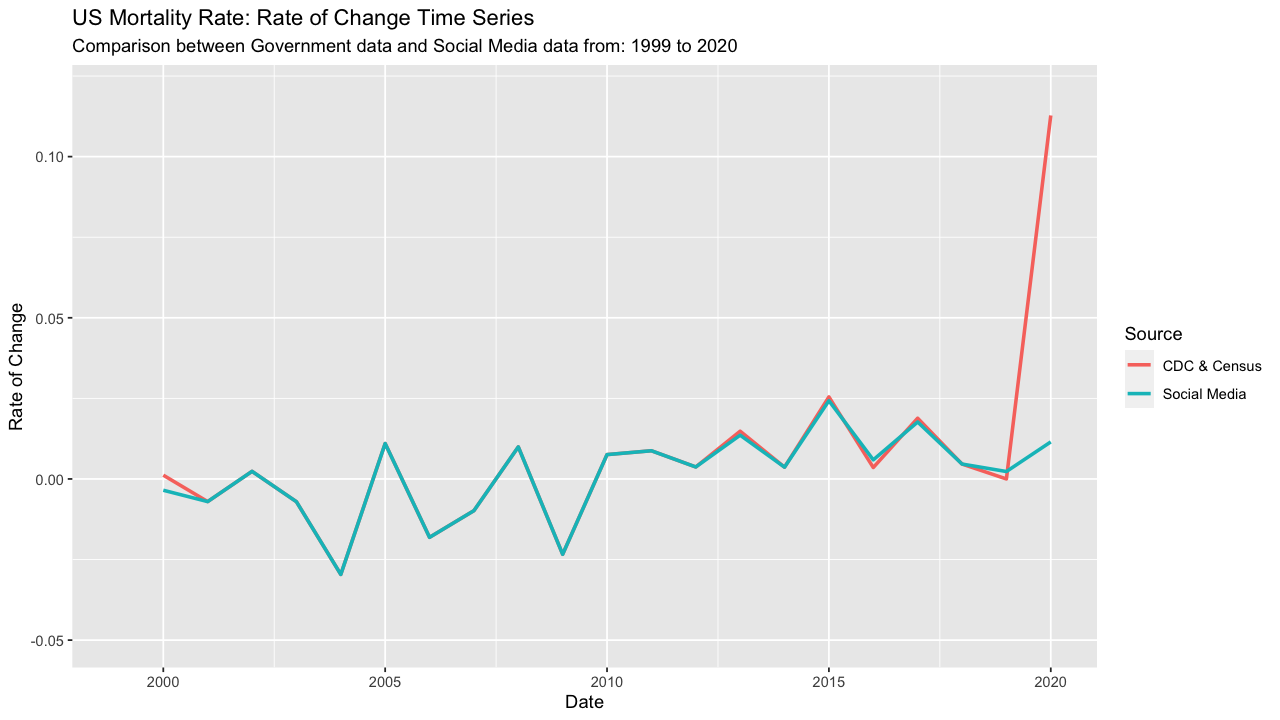
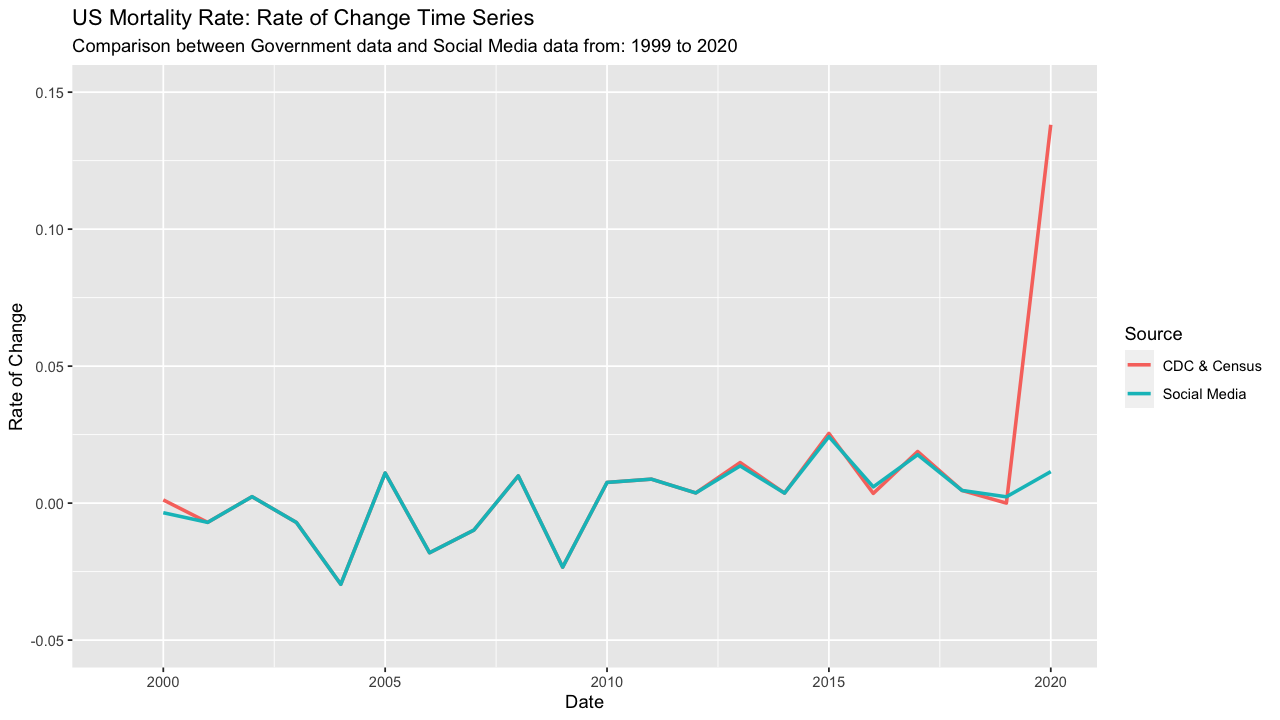
Travis build  pushed to Github Pages

diff --git a/covid-19-mortality-and-disinformation-part-4.html b/covid-19-mortality-and-disinformation-part-4.html
@@ -4,7 +4,7 @@
         <meta charset="utf-8">
         <meta http-equiv="X-UA-Compatible" content="IE=edge">
         <meta name="viewport" content="width=device-width, initial-scale=1">
-        <meta name="description" content="Covid Mortality and Disinformation - (Part 4) In the previous two posts we downloaded mortality data from the National Center for Health Statistics (NCHS) and population data from the Census from...">
+        <meta name="description" content="Covid Mortality and Disinformation - (Part 4) As part of our investigation into mortality rates reported on social media and mortality data created by combining government data sources, we&#39;ve now...">
         <meta name="keywords" content="">
         <link rel="icon" href="./favicon.ico">
         <!-- Canonical -->
@@ -70,7 +70,7 @@
               <div class="col-lg-12">
                   <div class="header-content">
                       <h1 class="header-title">COVID-19 Mortality and Disinformation - Part 4</h1>
-                      <p class="header-date"> <a href="./author/kivan-polimis.html">Kivan Polimis</a>, Wed 13 January 2021,  <a href="./category/tutorials.html">Tutorials</a></p>
+                      <p class="header-date"> <a href="./author/kivan-polimis.html">Kivan Polimis</a>, Sun 17 January 2021,  <a href="./category/tutorials.html">Tutorials</a></p>
                       <div class="header-underline"></div>
                       <div class="clearfix"></div>
                       <p class="pull-right header-tags">
@@ -90,7 +90,7 @@
         <!-- Content -->
     <div class="container content">
         <h1>Covid Mortality and Disinformation - (Part 4)</h1>
-<p>In the previous two posts we downloaded mortality data from the <a href="https://www.cdc.gov/nchs/about/50th_anniversary.htm">National Center for Health Statistics</a> (NCHS) and population data from the Census from 1999 to 2020</p>
+<p>As part of our investigation into mortality rates reported on social media and mortality data created by combining government data sources, we've now completed 3 steps. First, we <a href="http://kivanpolimis.com/covid-19-mortality-and-disinformation-part-1.html">downloaded mortality data</a> from the <a href="https://www.cdc.gov/nchs/about/50th_anniversary.htm">National Center for Health Statistics</a> (NCHS) from 1999 to 2020. Then we <a href="http://kivanpolimis.com/covid-19-mortality-and-disinformation-part-2.html">downloaded population data</a> from the Census from 1999 to 2020. Using the mortality and population data, we <a href="http://kivanpolimis.com/covid-19-mortality-and-disinformation-part-3.html">created mortality rates</a>. Now that we have mortality rates, we can compare the mortality data we have with the mortality data reported on social media that spurred this blog series.</p>
 <p>load libraries</p>
 <div class="highlight"><pre><span></span><span class="nf">library</span><span class="p">(</span><span class="n">here</span><span class="p">)</span>
 <span class="nf">library</span><span class="p">(</span><span class="n">reshape2</span><span class="p">)</span>
@@ -99,79 +99,122 @@
 </pre></div>
 
 
+<p>Our mortality data is stores in the .csv <code>mortality_time_series_national.csv</code>. I manually coded the table reported in the social media blog post in the .csv <code>social_media_mortality_data.csv</code>.</p>
 <div class="highlight"><pre><span></span><span class="n">mortality_time_series_national</span> <span class="o">=</span> <span class="nf">read_csv</span><span class="p">(</span><span class="nf">here</span><span class="p">(</span><span class="s">&quot;output/mortality_time_series_national.csv&quot;</span><span class="p">))</span>
 <span class="n">social_media_mortality_data</span> <span class="o">=</span> <span class="nf">read_csv</span><span class="p">(</span><span class="nf">here</span><span class="p">(</span><span class="s">&quot;data/social_media_mortality_data.csv&quot;</span><span class="p">))</span>
 </pre></div>
 
 
-<div class="highlight"><pre><span></span><span class="nf">names</span><span class="p">(</span><span class="n">mortality_time_series_national</span><span class="p">)</span>
-<span class="nf">names</span><span class="p">(</span><span class="n">social_media_mortality_data</span><span class="p">)</span>
-</pre></div>
-
-
+<p>Let's add a column <code>source</code> to each dataset so that we can tell the data sources apart when we create a comparison data set</p>
 <div class="highlight"><pre><span></span><span class="n">mortality_time_series_national</span><span class="o">$</span><span class="n">source</span> <span class="o">=</span> <span class="s">&quot;CDC &amp; Census&quot;</span>
 <span class="n">social_media_mortality_data</span><span class="o">$</span><span class="n">source</span> <span class="o">=</span> <span class="s">&quot;Social Media&quot;</span>
-<span class="n">mortality_comparison_data_long</span> <span class="o">=</span> <span class="nf">rbind</span><span class="p">(</span><span class="n">mortality_time_series_national</span><span class="p">,</span> <span class="n">social_media_mortality_data</span><span class="p">)</span>
 </pre></div>
 
 
+<p>Quick look at the datasets. We can see that they have identical column names and the same amount of observations.</p>
+<div class="highlight"><pre><span></span><span class="nf">glimpse</span><span class="p">(</span><span class="n">mortality_time_series_national</span><span class="p">)</span>
+<span class="nf">glimpse</span><span class="p">(</span><span class="n">social_media_mortality_data</span><span class="p">)</span>
+</pre></div>
+
+
+<div class="highlight"><pre><span></span><span class="err">## Rows: 44</span>
+<span class="err">## Columns: 5</span>
+<span class="err">## $ state_name &lt;chr&gt; &quot;United States&quot;, &quot;United States&quot;, &quot;United States&quot;, &quot;Unit...</span>
+<span class="err">## $ variable   &lt;chr&gt; &quot;pop_estimate&quot;, &quot;pop_estimate&quot;, &quot;pop_estimate&quot;, &quot;pop_est...</span>
+<span class="err">## $ value      &lt;dbl&gt; 280466621, 281424600, 284968955, 287625193, 290107933, 2...</span>
+<span class="err">## $ year       &lt;dbl&gt; 1999, 2000, 2001, 2002, 2003, 2004, 2005, 2006, 2007, 20...</span>
+<span class="err">## $ source     &lt;chr&gt; &quot;CDC &amp; Census&quot;, &quot;CDC &amp; Census&quot;, &quot;CDC &amp; Census&quot;, &quot;CDC &amp; C...</span>
+</pre></div>
+
+
+<div class="highlight"><pre><span></span><span class="err">## Rows: 44</span>
+<span class="err">## Columns: 5</span>
+<span class="err">## $ state_name &lt;chr&gt; &quot;United States&quot;, &quot;United States&quot;, &quot;United States&quot;, &quot;Unit...</span>
+<span class="err">## $ year       &lt;dbl&gt; 1999, 2000, 2001, 2002, 2003, 2004, 2005, 2006, 2007, 20...</span>
+<span class="err">## $ variable   &lt;chr&gt; &quot;pop_estimate&quot;, &quot;pop_estimate&quot;, &quot;pop_estimate&quot;, &quot;pop_est...</span>
+<span class="err">## $ value      &lt;dbl&gt; 279040168, 281421906, 284968955, 287625193, 290107933, 2...</span>
+<span class="err">## $ source     &lt;chr&gt; &quot;Social Media&quot;, &quot;Social Media&quot;, &quot;Social Media&quot;, &quot;Social ...</span>
+</pre></div>
+
+
+<p>Combine our curated mortality data with social media mortality data into one long mortality dataset.</p>
+<div class="highlight"><pre><span></span><span class="n">mortality_comparison_data_long</span> <span class="o">=</span> <span class="nf">rbind</span><span class="p">(</span><span class="n">mortality_time_series_national</span><span class="p">,</span> <span class="n">social_media_mortality_data</span><span class="p">)</span>
+</pre></div>
+
+
+<p>Create a wide combined mortality dataset and add three comparison variables: (1) the mortality rate, (2) the mortality rate lag, and (3) the rate of change for the mortality rate</p>
 <div class="highlight"><pre><span></span><span class="n">mortality_comparison_data_wide</span> <span class="o">=</span> <span class="n">reshape2</span><span class="o">::</span><span class="nf">dcast</span><span class="p">(</span><span class="n">mortality_comparison_data_long</span><span class="p">,</span> <span class="n">state_name</span> <span class="o">+</span> <span class="n">year</span> <span class="o">+</span> <span class="n">source</span> <span class="o">~</span> <span class="n">variable</span><span class="p">)</span> <span class="o">%&gt;%</span>
   <span class="nf">group_by</span><span class="p">(</span><span class="n">source</span><span class="p">)</span> <span class="o">%&gt;%</span>
   <span class="nf">arrange</span><span class="p">(</span><span class="n">source</span><span class="p">)</span> <span class="o">%&gt;%</span>
   <span class="nf">mutate</span><span class="p">(</span><span class="n">mortality_rate</span> <span class="o">=</span> <span class="nf">round</span><span class="p">((</span><span class="n">all_deaths</span><span class="o">/</span><span class="n">pop_estimate</span><span class="p">)</span><span class="o">*</span><span class="m">100000</span><span class="p">),</span>
          <span class="n">mortality_rate_lag</span> <span class="o">=</span> <span class="nf">lag</span><span class="p">(</span><span class="n">mortality_rate</span><span class="p">,</span> <span class="n">order_by</span> <span class="o">=</span> <span class="n">year</span><span class="p">),</span>
-         <span class="n">mortality_rate_roc</span> <span class="o">=</span> <span class="m">100</span> <span class="o">*</span> <span class="p">(</span><span class="n">mortality_rate</span> <span class="o">-</span> <span class="n">mortality_rate_lag</span><span class="p">)</span><span class="o">/</span><span class="n">mortality_rate_lag</span><span class="p">)</span>
+         <span class="n">mortality_rate_roc</span> <span class="o">=</span> <span class="p">(</span><span class="n">mortality_rate</span> <span class="o">-</span> <span class="n">mortality_rate_lag</span><span class="p">)</span><span class="o">/</span><span class="n">mortality_rate_lag</span><span class="p">)</span>
 </pre></div>
 
 
+<p>Now we can plot the mortality rate by data source. The mortality rates are near identical with the exception of 2020 (more on this later)</p>
 <div>
 <img src="images/us_mortality_rate_plot.png" alt="Rate of Change: US Mortality Rate Change from 1999 to 2020">
 </div>
 
-<div>
-<img src="images/us_mortality_rate_roc_plot.png" alt="Rate of Change: US Mortality Rate Change from 1999 to 2020">
-</div>
-
-<div>
-<img src="images/us_mortality_rate_facet_plot.png" alt="US Mortality Rate per 100,000 from 1999 to 2020 (Dual Plots)">
-</div>
-
+<p>Let's create facet plots of the mortality rate by source to better see the trend because they so closely overlap and look like one line for most of the time period</p>
 <div>
 <img src="images/us_mortality_rate_roc_facet_plot.png" alt="Rate of Change: US Mortality Rate of Change from 1999 to 2020 (Dual Plots)">
 </div>
 
-<div class="highlight"><pre><span></span><span class="n">mortality_rate_roc_comparison</span> <span class="o">=</span>  <span class="n">mortality_comparison_data_wide</span> <span class="o">%&gt;%</span>
+<p>Here's a plot of mortality rate's rate of change by data source. Similar to the plot of mortality rate, 2020 is the data point where our data sources differ the most.</p>
+<div>
+<img src="images/us_mortality_rate_roc_plot.png" alt="Rate of Change: US Mortality Rate Change from 1999 to 2020">
+</div>
+
+<p>We can create another facet plot to better separate trends</p>
+<div>
+<img src="images/us_mortality_rate_facet_plot.png" alt="US Mortality Rate per 100,000 from 1999 to 2020 (Dual Plots)">
+</div>
+
+<p>We will compare the Social Media data and Government data by cohort and period. <a href="https://www.publichealth.columbia.edu/research/population-health-methods/age-period-cohort-analysis">Period and cohort analysis</a> is a method common to epidemiology; while we are not using the terms in their exact public health sense, these terms can be helpful for separating time-varying elements. The period comparison will compare the mortality rate of change from 1999 to 2019 with the mortality rate of change from 2020, recalling the central point of contention from our poster that 2020 mortality is inline with the time period 1999 to 2019. Secondly, we will split the time period 1999 to 2020 into 5-year cohorts for a more granular analysis of the trends within proximate years.</p>
+<div class="highlight"><pre><span></span><span class="n">cohort_period_comparisons</span> <span class="o">=</span>  <span class="n">mortality_comparison_data_wide</span> <span class="o">%&gt;%</span>
   <span class="nf">mutate</span><span class="p">(</span><span class="n">period</span> <span class="o">=</span> <span class="nf">ifelse</span><span class="p">(</span><span class="n">year</span><span class="o">&lt;</span><span class="m">2020</span><span class="p">,</span><span class="s">&quot;1999-2019&quot;</span><span class="p">,</span> <span class="s">&quot;2020&quot;</span><span class="p">),</span>
          <span class="n">cohort</span> <span class="o">=</span> <span class="nf">ifelse</span><span class="p">(</span><span class="n">year</span><span class="o">&gt;=</span><span class="m">1999</span> <span class="o">&amp;</span> <span class="n">year</span><span class="o">&lt;</span><span class="m">2005</span><span class="p">,</span> <span class="s">&quot;1999-2004&quot;</span><span class="p">,</span>
                          <span class="nf">ifelse</span><span class="p">(</span><span class="n">year</span><span class="o">&gt;=</span><span class="m">2005</span> <span class="o">&amp;</span> <span class="n">year</span><span class="o">&lt;</span><span class="m">2010</span><span class="p">,</span> <span class="s">&quot;2005-2009&quot;</span><span class="p">,</span>
                                 <span class="nf">ifelse</span><span class="p">(</span><span class="n">year</span><span class="o">&gt;=</span><span class="m">2010</span> <span class="o">&amp;</span> <span class="n">year</span><span class="o">&lt;</span><span class="m">2015</span><span class="p">,</span> <span class="s">&quot;2010-2014&quot;</span><span class="p">,</span>
                                        <span class="nf">ifelse</span><span class="p">(</span><span class="n">year</span><span class="o">&gt;=</span><span class="m">2015</span> <span class="o">&amp;</span> <span class="n">year</span><span class="o">&lt;</span><span class="m">2020</span><span class="p">,</span> <span class="s">&quot;2015-2019&quot;</span><span class="p">,</span> <span class="s">&quot;2020&quot;</span><span class="p">)))))</span> <span class="o">%&gt;%</span>
   <span class="nf">group_by</span><span class="p">(</span><span class="n">source</span><span class="p">,</span> <span class="n">cohort</span><span class="p">)</span> <span class="o">%&gt;%</span>
-  <span class="nf">mutate</span><span class="p">(</span><span class="n">cohort_mortality_rate_roc</span> <span class="o">=</span> <span class="nf">round</span><span class="p">(</span><span class="nf">mean</span><span class="p">(</span><span class="n">mortality_rate_roc</span><span class="p">,</span> <span class="n">na.rm</span> <span class="o">=</span> <span class="kc">TRUE</span><span class="p">),</span><span class="m">3</span><span class="p">))</span> <span class="o">%&gt;%</span>
+  <span class="nf">mutate</span><span class="p">(</span><span class="n">cohort_mortality_rate</span> <span class="o">=</span> <span class="nf">round</span><span class="p">(</span><span class="nf">mean</span><span class="p">(</span><span class="n">mortality_rate</span><span class="p">,</span> <span class="n">na.rm</span> <span class="o">=</span> <span class="kc">TRUE</span><span class="p">)),</span>
+         <span class="n">cohort_mortality_rate_roc</span> <span class="o">=</span> <span class="nf">round</span><span class="p">(</span><span class="nf">mean</span><span class="p">(</span><span class="n">mortality_rate_roc</span><span class="p">,</span> <span class="n">na.rm</span> <span class="o">=</span> <span class="kc">TRUE</span><span class="p">),</span><span class="m">3</span><span class="p">))</span> <span class="o">%&gt;%</span>
   <span class="nf">ungroup</span><span class="p">()</span> <span class="o">%&gt;%</span>
   <span class="nf">group_by</span><span class="p">(</span><span class="n">source</span><span class="p">,</span> <span class="n">period</span><span class="p">)</span> <span class="o">%&gt;%</span>
-  <span class="nf">mutate</span><span class="p">(</span><span class="n">period_mortality_rate_roc</span> <span class="o">=</span> <span class="nf">round</span><span class="p">(</span><span class="nf">mean</span><span class="p">(</span><span class="n">mortality_rate_roc</span><span class="p">,</span> <span class="n">na.rm</span> <span class="o">=</span> <span class="kc">TRUE</span><span class="p">),</span> <span class="m">3</span><span class="p">))</span> <span class="o">%&gt;%</span>
-  <span class="nf">select</span><span class="p">(</span><span class="n">source</span><span class="p">,</span> <span class="n">cohort</span><span class="p">,</span> <span class="n">period</span><span class="p">,</span> <span class="n">cohort_mortality_rate_roc</span><span class="p">,</span> <span class="n">period_mortality_rate_roc</span><span class="p">)</span> <span class="o">%&gt;%</span>
+  <span class="nf">mutate</span><span class="p">(</span><span class="n">period_mortality_rate</span> <span class="o">=</span> <span class="nf">round</span><span class="p">(</span><span class="nf">mean</span><span class="p">(</span><span class="n">mortality_rate</span><span class="p">,</span> <span class="n">na.rm</span> <span class="o">=</span> <span class="kc">TRUE</span><span class="p">)),</span>
+         <span class="n">period_mortality_rate_roc</span> <span class="o">=</span> <span class="nf">round</span><span class="p">(</span><span class="nf">mean</span><span class="p">(</span><span class="n">mortality_rate_roc</span><span class="p">,</span> <span class="n">na.rm</span> <span class="o">=</span> <span class="kc">TRUE</span><span class="p">),</span> <span class="m">3</span><span class="p">))</span> <span class="o">%&gt;%</span>
+  <span class="nf">select</span><span class="p">(</span><span class="n">source</span><span class="p">,</span> <span class="n">cohort</span><span class="p">,</span> <span class="n">period</span><span class="p">,</span> <span class="n">cohort_mortality_rate</span><span class="p">,</span> <span class="n">period_mortality_rate</span><span class="p">,</span>
+         <span class="n">cohort_mortality_rate_roc</span><span class="p">,</span> <span class="n">period_mortality_rate_roc</span><span class="p">)</span> <span class="o">%&gt;%</span>
   <span class="nf">distinct</span><span class="p">()</span>
 </pre></div>
 
 
-<!-- Thu Jan 14 19:53:55 2021 -->
+<!-- html table generated in R 3.6.3 by xtable 1.8-4 package -->
+
+<!-- Sat Jan 16 19:31:29 2021 -->
 
 <table border=1>
-<caption align="bottom"> Comparison of US Mortality Rate of Change (ROC) by Data Source, Cohort, and Period </caption>
-<tr> <th> Data Source </th> <th> Cohort </th> <th> Period </th> <th> Cohort Mortality Rate ROC </th> <th> Period Mortality Rate ROC </th>  </tr>
-  <tr> <td> CDC &amp; Census </td> <td> 1999-2004 </td> <td align="center"> 1999-2019 </td> <td align="center"> -0.008 </td> <td align="center"> 0.001 </td> </tr>
-  <tr> <td> CDC &amp; Census </td> <td> 2005-2009 </td> <td align="center"> 1999-2019 </td> <td align="center"> -0.006 </td> <td align="center"> 0.001 </td> </tr>
-  <tr> <td> CDC &amp; Census </td> <td> 2010-2014 </td> <td align="center"> 1999-2019 </td> <td align="center"> 0.008 </td> <td align="center"> 0.001 </td> </tr>
-  <tr> <td> CDC &amp; Census </td> <td> 2015-2019 </td> <td align="center"> 1999-2019 </td> <td align="center"> 0.010 </td> <td align="center"> 0.001 </td> </tr>
-  <tr> <td> CDC &amp; Census </td> <td> 2020 </td> <td align="center"> 2020 </td> <td align="center"> 0.113 </td> <td align="center"> 0.113 </td> </tr>
-  <tr> <td> Social Media </td> <td> 1999-2004 </td> <td align="center"> 1999-2019 </td> <td align="center"> -0.009 </td> <td align="center"> 0.001 </td> </tr>
-  <tr> <td> Social Media </td> <td> 2005-2009 </td> <td align="center"> 1999-2019 </td> <td align="center"> -0.006 </td> <td align="center"> 0.001 </td> </tr>
-  <tr> <td> Social Media </td> <td> 2010-2014 </td> <td align="center"> 1999-2019 </td> <td align="center"> 0.007 </td> <td align="center"> 0.001 </td> </tr>
-  <tr> <td> Social Media </td> <td> 2015-2019 </td> <td align="center"> 1999-2019 </td> <td align="center"> 0.011 </td> <td align="center"> 0.001 </td> </tr>
-  <tr> <td> Social Media </td> <td> 2020 </td> <td align="center"> 2020 </td> <td align="center"> 0.011 </td> <td align="center"> 0.011 </td> </tr>
+<caption align="bottom"> Comparison of US Mortality Rates by Data Source, Cohort, and Period </caption>
+<tr> <th> Data Source </th> <th> Cohort </th> <th> Period </th> <th> Cohort Mortality Rate </th> <th> Period Mortality Rate </th> <th> Cohort Mortality Rate ROC </th> <th> Period Mortality Rate ROC </th>  </tr>
+  <tr> <td> CDC &amp; Census </td> <td> 1999-2004 </td> <td align="center"> 1999-2019 </td> <td align="center"> 845 </td> <td align="center"> 833 </td> <td align="center"> -0.008 </td> <td align="center"> 0.001 </td> </tr>
+  <tr> <td> CDC &amp; Census </td> <td> 2005-2009 </td> <td align="center"> 1999-2019 </td> <td align="center"> 811 </td> <td align="center"> 833 </td> <td align="center"> -0.006 </td> <td align="center"> 0.001 </td> </tr>
+  <tr> <td> CDC &amp; Census </td> <td> 2010-2014 </td> <td align="center"> 1999-2019 </td> <td align="center"> 813 </td> <td align="center"> 833 </td> <td align="center"> 0.008 </td> <td align="center"> 0.001 </td> </tr>
+  <tr> <td> CDC &amp; Census </td> <td> 2015-2019 </td> <td align="center"> 1999-2019 </td> <td align="center"> 860 </td> <td align="center"> 833 </td> <td align="center"> 0.010 </td> <td align="center"> 0.001 </td> </tr>
+  <tr> <td> CDC &amp; Census </td> <td> 2020 </td> <td align="center"> 2020 </td> <td align="center"> 989 </td> <td align="center"> 989 </td> <td align="center"> 0.138 </td> <td align="center"> 0.138 </td> </tr>
+  <tr> <td> Social Media </td> <td> 1999-2004 </td> <td align="center"> 1999-2019 </td> <td align="center"> 845 </td> <td align="center"> 832 </td> <td align="center"> -0.009 </td> <td align="center"> 0.001 </td> </tr>
+  <tr> <td> Social Media </td> <td> 2005-2009 </td> <td align="center"> 1999-2019 </td> <td align="center"> 811 </td> <td align="center"> 832 </td> <td align="center"> -0.006 </td> <td align="center"> 0.001 </td> </tr>
+  <tr> <td> Social Media </td> <td> 2010-2014 </td> <td align="center"> 1999-2019 </td> <td align="center"> 812 </td> <td align="center"> 832 </td> <td align="center"> 0.007 </td> <td align="center"> 0.001 </td> </tr>
+  <tr> <td> Social Media </td> <td> 2015-2019 </td> <td align="center"> 1999-2019 </td> <td align="center"> 859 </td> <td align="center"> 832 </td> <td align="center"> 0.011 </td> <td align="center"> 0.001 </td> </tr>
+  <tr> <td> Social Media </td> <td> 2020 </td> <td align="center"> 2020 </td> <td align="center"> 880 </td> <td align="center"> 880 </td> <td align="center"> 0.011 </td> <td align="center"> 0.011 </td> </tr>
 </table>
+
+<p>In the first blog post of this series, I claimed that (1) the mortality rate in 2020 was almost 20% higher than the period 1999 to 2019 and (2) the rate of change for 2020's mortality rate is 100 times greater than the average rate of change from 1999 to 2019. Now we can see how these numbers were derived. The mortality rate in 2020 was 989 deaths per 100,000 residents while the period mortality rate for 1999 to 2019 was 833 deaths per 100,000 residents. The 2020 mortality rate represents and 18.7% increase from the 1999 to 2019 mortality rate.</p>
+<p>The rate of change comparison is where 2020 sets itself apart. The rate of change for the mortality rate in 2020 was .138 while the period 1999 to 2019 had a rate of change of .001. The 2020 rate of change is 138 times greater than the period rate of change! This is an astounding acceleration in the mortality rate. Moreover, using the social media data, the rate of change in 2020 is vastly different from the time period 1999 to 2019. In the social media data, the rate of change for the mortality rate in 2020 was .011 while the period 1999 to 2019 had a rate of change of .001. With this data set, the 2020 rate of change is 11 times greater than the period rate of change, also cause for alarm.</p>
+<p>Ultimately, the mortality rate conclusions from the social media post are incorrect because the 2020 mortality data is incorrect. The total deaths in 2020 obtained from government data sources was 3,258,883 while the social media post showed 2,913,144 total deaths. The difference between these data sources is 345,739 deaths (11% difference). According to <a href="https://www.cnn.com/2020/12/26/us/1-in-1000-died-coronavirus-timeline/index.html">Johns Hopkins University data</a>, more than 330,000 Americans died from COVID-19, roughly the difference in deaths between the data sources. It appears the author of the social media post used mortality data that did not account for COVID-19 and even with that flawed data set, the 2020 change in mortality rate would still be significantly larger than the average mortality rate (5% greater) or rate of change (11 times greater)</p>
+<p>Aside from conclusions about COVID-19, another important trend emerges from the data. From 1999 to 2009, there were six years were the mortality rate fell and the overall mortality rate for that period declined. However, after 2009, the mortality rate has steadily increased with the largest increase occurring between 2019 and 2020. The changes in mortality rates are reflected in changes in life expectancy and has sparked literature to investigate declines in life expectancy, such as this paper by <a href="https://www.pnas.org/content/112/49/15078">Anne Case and Angus Deaton</a>. Our mortality data is more supportive evidence for why life expectancy has decreased.</p>
 
 
         

diff --git a/covid-19-mortality-and-disinformation-part-3.html b/covid-19-mortality-and-disinformation-part-3.html
@@ -174,36 +174,36 @@
 <p>Let's recreate the table from the social media post that spurred this blog series</p>
 <!-- html table generated in R 3.6.3 by xtable 1.8-4 package -->
 
-<!-- Fri Jan 15 16:00:16 2021 -->
+<!-- Fri Jan 15 16:55:38 2021 -->
 
 <table border=1>
 <caption align="bottom"> US Mortality Rate 1999 to 2020 </caption>
 <tr> <th> Year </th> <th> Population </th> <th> Deaths </th> <th> Mortality Rate </th>  </tr>
-  <tr> <td> 1999 </td> <td align="center"> 280466621 </td> <td align="center"> 2391399 </td> <td align="center"> 853 </td> </tr>
-  <tr> <td> 2000 </td> <td align="center"> 281424600 </td> <td align="center"> 2403351 </td> <td align="center"> 854 </td> </tr>
-  <tr> <td> 2001 </td> <td align="center"> 284968955 </td> <td align="center"> 2416425 </td> <td align="center"> 848 </td> </tr>
-  <tr> <td> 2002 </td> <td align="center"> 287625193 </td> <td align="center"> 2443387 </td> <td align="center"> 850 </td> </tr>
-  <tr> <td> 2003 </td> <td align="center"> 290107933 </td> <td align="center"> 2448288 </td> <td align="center"> 844 </td> </tr>
-  <tr> <td> 2004 </td> <td align="center"> 292805298 </td> <td align="center"> 2397615 </td> <td align="center"> 819 </td> </tr>
-  <tr> <td> 2005 </td> <td align="center"> 295516599 </td> <td align="center"> 2448017 </td> <td align="center"> 828 </td> </tr>
-  <tr> <td> 2006 </td> <td align="center"> 298379912 </td> <td align="center"> 2426264 </td> <td align="center"> 813 </td> </tr>
-  <tr> <td> 2007 </td> <td align="center"> 301231207 </td> <td align="center"> 2423712 </td> <td align="center"> 805 </td> </tr>
-  <tr> <td> 2008 </td> <td align="center"> 304093966 </td> <td align="center"> 2471984 </td> <td align="center"> 813 </td> </tr>
-  <tr> <td> 2009 </td> <td align="center"> 306771529 </td> <td align="center"> 2437163 </td> <td align="center"> 794 </td> </tr>
-  <tr> <td> 2010 </td> <td align="center"> 308745538 </td> <td align="center"> 2468435 </td> <td align="center"> 800 </td> </tr>
-  <tr> <td> 2011 </td> <td align="center"> 311583481 </td> <td align="center"> 2515458 </td> <td align="center"> 807 </td> </tr>
-  <tr> <td> 2012 </td> <td align="center"> 313877662 </td> <td align="center"> 2543279 </td> <td align="center"> 810 </td> </tr>
-  <tr> <td> 2013 </td> <td align="center"> 316059947 </td> <td align="center"> 2596993 </td> <td align="center"> 822 </td> </tr>
-  <tr> <td> 2014 </td> <td align="center"> 318386329 </td> <td align="center"> 2626418 </td> <td align="center"> 825 </td> </tr>
-  <tr> <td> 2015 </td> <td align="center"> 320738994 </td> <td align="center"> 2712630 </td> <td align="center"> 846 </td> </tr>
-  <tr> <td> 2016 </td> <td align="center"> 323071755 </td> <td align="center"> 2744248 </td> <td align="center"> 849 </td> </tr>
-  <tr> <td> 2017 </td> <td align="center"> 325122128 </td> <td align="center"> 2813503 </td> <td align="center"> 865 </td> </tr>
-  <tr> <td> 2018 </td> <td align="center"> 326838199 </td> <td align="center"> 2839076 </td> <td align="center"> 869 </td> </tr>
-  <tr> <td> 2019 </td> <td align="center"> 328329953 </td> <td align="center"> 2852609 </td> <td align="center"> 869 </td> </tr>
-  <tr> <td> 2020 </td> <td align="center"> 329484123 </td> <td align="center"> 3258883 </td> <td align="center"> 989 </td> </tr>
-  </table>
+  <tr> <td> 1999 </td> <td> 280,466,621 </td> <td> 2,391,399 </td> <td> 853 </td> </tr>
+  <tr> <td> 2000 </td> <td> 281,424,600 </td> <td> 2,403,351 </td> <td> 854 </td> </tr>
+  <tr> <td> 2001 </td> <td> 284,968,955 </td> <td> 2,416,425 </td> <td> 848 </td> </tr>
+  <tr> <td> 2002 </td> <td> 287,625,193 </td> <td> 2,443,387 </td> <td> 850 </td> </tr>
+  <tr> <td> 2003 </td> <td> 290,107,933 </td> <td> 2,448,288 </td> <td> 844 </td> </tr>
+  <tr> <td> 2004 </td> <td> 292,805,298 </td> <td> 2,397,615 </td> <td> 819 </td> </tr>
+  <tr> <td> 2005 </td> <td> 295,516,599 </td> <td> 2,448,017 </td> <td> 828 </td> </tr>
+  <tr> <td> 2006 </td> <td> 298,379,912 </td> <td> 2,426,264 </td> <td> 813 </td> </tr>
+  <tr> <td> 2007 </td> <td> 301,231,207 </td> <td> 2,423,712 </td> <td> 805 </td> </tr>
+  <tr> <td> 2008 </td> <td> 304,093,966 </td> <td> 2,471,984 </td> <td> 813 </td> </tr>
+  <tr> <td> 2009 </td> <td> 306,771,529 </td> <td> 2,437,163 </td> <td> 794 </td> </tr>
+  <tr> <td> 2010 </td> <td> 308,745,538 </td> <td> 2,468,435 </td> <td> 800 </td> </tr>
+  <tr> <td> 2011 </td> <td> 311,583,481 </td> <td> 2,515,458 </td> <td> 807 </td> </tr>
+  <tr> <td> 2012 </td> <td> 313,877,662 </td> <td> 2,543,279 </td> <td> 810 </td> </tr>
+  <tr> <td> 2013 </td> <td> 316,059,947 </td> <td> 2,596,993 </td> <td> 822 </td> </tr>
+  <tr> <td> 2014 </td> <td> 318,386,329 </td> <td> 2,626,418 </td> <td> 825 </td> </tr>
+  <tr> <td> 2015 </td> <td> 320,738,994 </td> <td> 2,712,630 </td> <td> 846 </td> </tr>
+  <tr> <td> 2016 </td> <td> 323,071,755 </td> <td> 2,744,248 </td> <td> 849 </td> </tr>
+  <tr> <td> 2017 </td> <td> 325,122,128 </td> <td> 2,813,503 </td> <td> 865 </td> </tr>
+  <tr> <td> 2018 </td> <td> 326,838,199 </td> <td> 2,839,076 </td> <td> 869 </td> </tr>
+  <tr> <td> 2019 </td> <td> 328,329,953 </td> <td> 2,852,609 </td> <td> 869 </td> </tr>
+  <tr> <td> 2020 </td> <td> 329,484,123 </td> <td> 3,258,883 </td> <td> 989 </td> </tr>
+</table>
 
-<p>We now have all the data we need to compare the mortality rates obtained from government data with the mortality rates shown in the social media post. Continue to Part 4 to view the results of this comparison.</p>
+<p>We now have all the data we need to compare the mortality rates obtained from government data with the mortality rates shown in the social media post. Continue to <a href="http://kivanpolimis.com/covid-19-mortality-and-disinformation-part-4.html">Part 4</a> to view the results of this comparison.</p>
 <script type="text/javascript">if (!document.getElementById('mathjaxscript_pelican_#%@#$@#')) {
     var align = "center",
         indent = "0em",

diff --git a/covid-19-mortality-and-disinformation-part-1.html b/covid-19-mortality-and-disinformation-part-1.html
@@ -98,7 +98,7 @@
 <p>The post caught my attention for three reasons: (1) it presented a falsifiable hypothesis, (2) the conclusion was counter-intuitive, and (3) there was an obvious challenge issued. Anyone reading this knows that falsifiable hypotheses are exciting because they deal with evidence and once we agree on the evidence, some hypotheses can be disproven with evidence. Here the falsifiable hypothesis is also the counter-intuitive conclusion, namely that COVID-19 has not affected mortality rates in the United States ("Nothing abnormal [about 2020 mortality rates], corona is like the flu"). What really spurred this blog post to be written was the message being sent in the last sentence of the blog post and the associated references below the table. The implicit challenge was that given data sources, one could also determine that mortality rates had not changed in the U.S. or other countries. As Barney Stinson would say, "Challenge Accepted!"</p>
 <p>The comparative concept at play in the mortality claims from social media is: "How bad is this year's mortality rate compared to previous mortality rates?". We can operationalize this concept as a rate of change and create it by comparing the morality rate for each year (y) to the mortality rate in the previous year (y-1):</p>
 <div class="math">$$\text{Rate of Change}_{y}= \frac{\text{Mortality Rate}_{y}-\text{Mortality Rate}_{y-1}}{\text{Mortality Rate}_{y-1}}$$</div>
-<p>After creating the rates of change for each year from 1999 to 2020, I concluded that the rate of change for 2020's mortality rate is 100 times greater than the average rate of change from 1999 to 2019. In short, the falsifiable hypothesis that was presented in the social media post (2020 mortality rates are normal), was falsified; the mortality rate change in 2020 was far from the average.</p>
+<p>After creating the rates of change for each year from 1999 to 2020, I concluded that (1) the mortality rate in 2020 was almost 20% higher than the period 1999 to 2019 and (2) the rate of change for 2020's mortality rate is 100 times greater than the average rate of change from 1999 to 2019.  In short, the falsifiable hypothesis that was presented in the social media post (2020 mortality rates are normal), was falsified; the mortality rate change in 2020 was far from the average.</p>
 <p>To lead others interested in getting the data themselves and drawing their own conclusions, I created a multi-part blog series. All code to recreate these analyses will eventually be available on <a href="https://github.com/kpolimis/">my Github account</a>. This blog post represents the first in an attempt to investigate the COVID-19 mortality claims made on social media. To understand changes in U.S. mortality over time, we need to gather (1): U.S. mortality data and (2): U.S population data. Then, we need to (3) create mortality rates with these data sources. Lastly, we need to (4) compare the mortality rates from the social media post to the mortality data obtained from government sources. In this post we complete step 1, gather U.S. mortality data.</p>
 <p>Government mortality and population data is available via the open data portal <a href="https://www.tylertech.com/products/socrata">Socrata</a>. You can sign up for a Socrata account <a href="https://support.socrata.com/hc/en-us/articles/115004055807-Signing-up-for-an-Account">here</a> and create a developer application to programmatically download Socrata data by following these <a href="https://support.socrata.com/hc/en-us/articles/210138558-Generating-an-App-Token">instructions</a></p>
 <p>Once you have established your Socrata Developer credentials, you can leverage an R package that connects to the Socrata API called <a href="https://cran.r-project.org/web/packages/RSocrata/index.html">RSocrata</a></p>

diff --git a/pages/home.html b/pages/home.html
@@ -86,6 +86,8 @@
         <div class="container content archive">
             <h2><a href="../pages/home.html"> </a></h2>
             <dl class="dl-horizontal">
+                <dt>Sun 17 January 2021</dt>
+                <dd><a href="../covid-19-mortality-and-disinformation-part-4.html">COVID-19 Mortality and Disinformation - Part 4</a></dd>
                 <dt>Thu 14 January 2021</dt>
                 <dd><a href="../covid-19-mortality-and-disinformation-part-3.html">COVID-19 Mortality and Disinformation - Part 3</a></dd>
                 <dt>Mon 11 January 2021</dt>
@@ -104,8 +106,6 @@
                 <dd><a href="../seattle-location-history.html">Seattle Location History</a></dd>
                 <dt>Mon 17 July 2017</dt>
                 <dd><a href="../siccs-debrief.html">SICCS Debrief</a></dd>
-                <dt>Fri 30 September 2016</dt>
-                <dd><a href="../flights-analysis.html">Flights Analysis</a></dd>
             </dl>
         </div>
     </div>

diff --git a/authors.html b/authors.html
@@ -86,6 +86,8 @@
         <div class="container content archive">
             <h2><a href="./author/kivan-polimis.html">Kivan Polimis</a></h2>
             <dl class="dl-horizontal">
+            	<dt>Sun 17 January 2021</dt>
+            	<dd><a href="./covid-19-mortality-and-disinformation-part-4.html">COVID-19 Mortality and Disinformation - Part 4</a></dd>
             	<dt>Thu 14 January 2021</dt>
             	<dd><a href="./covid-19-mortality-and-disinformation-part-3.html">COVID-19 Mortality and Disinformation - Part 3</a></dd>
             	<dt>Mon 11 January 2021</dt>

diff --git a/category/tutorials.html b/category/tutorials.html
@@ -86,6 +86,8 @@
         <div class="container content archive">
             <h2><a href="../category/tutorials.html">Tutorials</a></h2>
             <dl class="dl-horizontal">
+            	<dt>Sun 17 January 2021</dt>
+            	<dd><a href="../covid-19-mortality-and-disinformation-part-4.html">COVID-19 Mortality and Disinformation - Part 4</a></dd>
             	<dt>Thu 14 January 2021</dt>
             	<dd><a href="../covid-19-mortality-and-disinformation-part-3.html">COVID-19 Mortality and Disinformation - Part 3</a></dd>
             	<dt>Mon 11 January 2021</dt>

diff --git a/author/kivan-polimis.html b/author/kivan-polimis.html
@@ -86,6 +86,8 @@
         <div class="container content archive">
             <h2><a href="../author/kivan-polimis.html"></a></h2>
             <dl class="dl-horizontal">
+            	<dt>Sun 17 January 2021</dt>
+            	<dd><a href="../covid-19-mortality-and-disinformation-part-4.html">COVID-19 Mortality and Disinformation - Part 4</a></dd>
             	<dt>Thu 14 January 2021</dt>
             	<dd><a href="../covid-19-mortality-and-disinformation-part-3.html">COVID-19 Mortality and Disinformation - Part 3</a></dd>
             	<dt>Mon 11 January 2021</dt>

diff --git a/archives.html b/archives.html
@@ -86,6 +86,8 @@
         <div class="container content archive">
             <h2><a href="./archives.html"></a></h2>
             <dl class="dl-horizontal">
+            	<dt>Sun 17 January 2021</dt>
+            	<dd><a href="./covid-19-mortality-and-disinformation-part-4.html">COVID-19 Mortality and Disinformation - Part 4</a></dd>
             	<dt>Thu 14 January 2021</dt>
             	<dd><a href="./covid-19-mortality-and-disinformation-part-3.html">COVID-19 Mortality and Disinformation - Part 3</a></dd>
             	<dt>Mon 11 January 2021</dt>

diff --git a/categories.html b/categories.html
@@ -115,6 +115,8 @@
             </dl>
             <h2><a href="./category/tutorials.html">Tutorials</a></h2>
             <dl class="dl-horizontal">
+            	<dt>Sun 17 January 2021</dt>
+            	<dd><a href="./covid-19-mortality-and-disinformation-part-4.html">COVID-19 Mortality and Disinformation - Part 4</a></dd>
             	<dt>Thu 14 January 2021</dt>
             	<dd><a href="./covid-19-mortality-and-disinformation-part-3.html">COVID-19 Mortality and Disinformation - Part 3</a></dd>
             	<dt>Mon 11 January 2021</dt>

diff --git a/covid-19-mortality-and-disinformation-part-2.html b/covid-19-mortality-and-disinformation-part-2.html
@@ -213,7 +213,7 @@
 </pre></div>
 
 
-<p>In the next post we will combine the mortality and population data to create mortality rates.</p>
+<p>In the <a href="http://kivanpolimis.com/covid-19-mortality-and-disinformation-part-3.html">next post</a> we will combine the mortality and population data to create mortality rates.</p>
 
 
         
